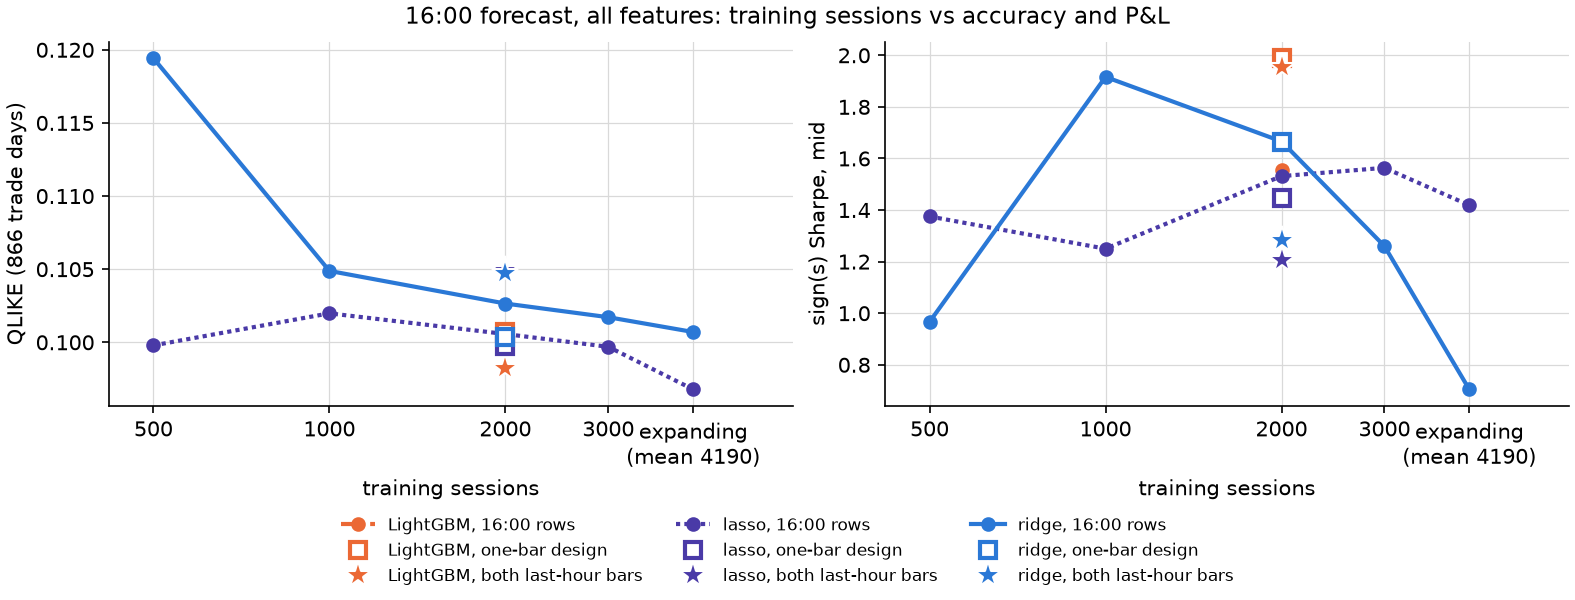
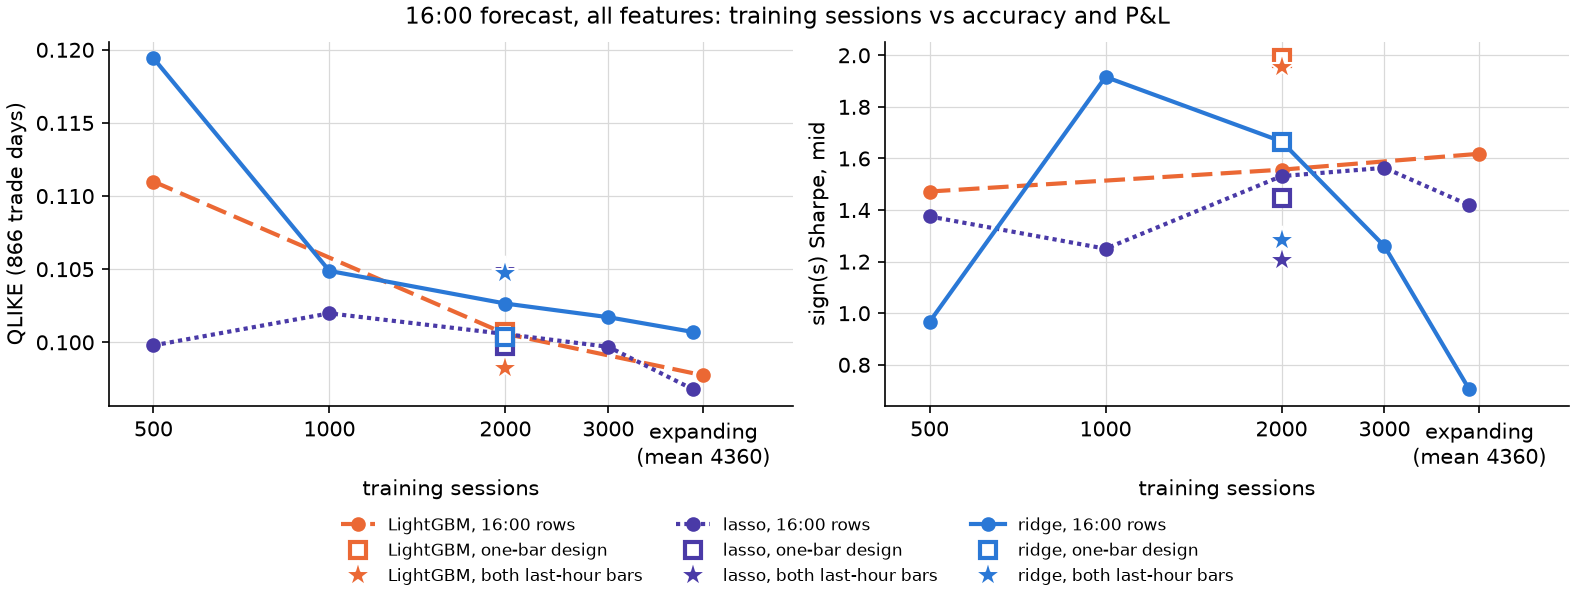
WIP snapshot: data-size study interim tables mid-run (not final)
Claude-Session: https://claude.ai/code/session_01ExxYmfkeSs8J19Auttq95f

diff --git a/results/close_studies_2026-10-03/trees_datasize/SUMMARY.md b/results/close_studies_2026-10-03/trees_datasize/SUMMARY.md
@@ -13,6 +13,7 @@ Question (the user's note): *not enough training data for trees? -> last hour (2
 - LightGBM, both last-hour bars (4000 rows) vs 2000 sessions of 16:00 rows on the same scaling: QLIKE 0.1006 -> 0.0982 (DM -1.18), Sharpe mid 1.56 -> 1.95 (HAC t 0.91).
 - lasso, both last-hour bars (4000 rows) vs 2000 sessions of 16:00 rows on the same scaling: QLIKE 0.1006 -> 0.1049 (DM 1.06), Sharpe mid 1.53 -> 1.21 (HAC t -0.91).
 - ridge, both last-hour bars (4000 rows) vs 2000 sessions of 16:00 rows on the same scaling: QLIKE 0.1027 -> 0.1048 (DM 0.67), Sharpe mid 1.67 -> 1.29 (HAC t -0.99).
+- LightGBM, learning curve on the 16:00 rows (500 / 2000 / expanding sessions): QLIKE 0.1110 / 0.1006 / 0.0977; Sharpe mid 1.47 / 1.56 / 1.62.
 - lasso, learning curve on the 16:00 rows (500 / 1000 / 2000 / 3000 / expanding sessions): QLIKE 0.0998 / 0.1020 / 0.1006 / 0.0997 / 0.0968; Sharpe mid 1.38 / 1.25 / 1.53 / 1.56 / 1.42.
 - ridge, learning curve on the 16:00 rows (500 / 1000 / 2000 / 3000 / expanding sessions): QLIKE 0.1194 / 0.1049 / 0.1027 / 0.1017 / 0.1007; Sharpe mid 0.97 / 1.92 / 1.67 / 1.26 / 0.70.
 - LightGBM, same 2000 sessions, one-bar design vs the last30 design's 16:00 rows (only the scaling of 279 columns differs): QLIKE 0.1007 vs 0.1006 (DM -0.09), Sharpe mid 1.99 vs 1.56 (HAC t -0.99).
@@ -61,7 +62,9 @@ Question (the user's note): *not enough training data for trees? -> last hour (2
 |---|---|---|---|---|---|---|---|---|---|
 | `lgbm_bar1600_w2000` | LightGBM | 16:00 rows, one-bar design (shipped) | 2000 sessions | 0.1007 | 1.99 | 1.52 |  |  | 21.3 |
 | `lgbm_pool_w4000` | LightGBM | both last-hour bars (last30 design) | 2000 sessions (4000 rows) | 0.0982 | 1.95 | 1.48 | -1.16 | -0.13 | 22.6 |
+| `lgbm_h16_w500` | LightGBM | 16:00 rows of the last30 design | 500 sessions | 0.1110 | 1.47 | 1.01 | 3.04 | -1.27 | 15.1 |
 | `lgbm_h16_w2000` | LightGBM | 16:00 rows of the last30 design | 2000 sessions | 0.1006 | 1.56 | 1.08 | -0.09 | -0.99 | 21.4 |
+| `lgbm_h16_wexp` | LightGBM | 16:00 rows of the last30 design | expanding (3695..5025 sessions) | 0.0977 | 1.62 | 1.15 | -1.72 | -0.91 | 24.4 |
 | `ridge_bar1600_w2000` | ridge | 16:00 rows, one-bar design (shipped) | 2000 sessions | 0.1004 | 1.66 | 1.20 | -0.07 | -0.79 | 0.1 |
 | `ridge_pool_w4000` | ridge | both last-hour bars (last30 design) | 2000 sessions (4000 rows) | 0.1048 | 1.29 | 0.82 | 0.88 | -1.46 | 0.2 |
 | `ridge_h16_w500` | ridge | 16:00 rows of the last30 design | 500 sessions | 0.1194 | 0.97 | 0.49 | 2.20 | -1.87 | 0.1 |
@@ -86,7 +89,11 @@ Question (the user's note): *not enough training data for trees? -> last hour (2
 | `lgbm_bar1600_w2000` | `lgbm_h16_w2000` | +0.0001 | +0.1 | 0.09 | +0.43 | 0.99 |
 | `lgbm_pool_w4000` | `lgbm_bar1600_w2000` | -0.0024 | -2.4 | -1.16 | -0.03 | -0.13 |
 | `lgbm_pool_w4000` | `lgbm_h16_w2000` | -0.0023 | -2.3 | -1.18 | +0.40 | 0.91 |
+| `lgbm_h16_w500` | `lgbm_bar1600_w2000` | +0.0103 | +10.3 | 3.04 | -0.52 | -1.27 |
+| `lgbm_h16_w500` | `lgbm_h16_w2000` | +0.0104 | +10.4 | 2.71 | -0.08 | -0.18 |
 | `lgbm_h16_w2000` | `lgbm_bar1600_w2000` | -0.0001 | -0.1 | -0.09 | -0.43 | -0.99 |
+| `lgbm_h16_wexp` | `lgbm_bar1600_w2000` | -0.0029 | -2.9 | -1.72 | -0.37 | -0.91 |
+| `lgbm_h16_wexp` | `lgbm_h16_w2000` | -0.0028 | -2.8 | -2.10 | +0.06 | 0.11 |
 | `ridge_bar1600_w2000` | `ridge_h16_w2000` | -0.0023 | -2.2 | -1.47 | -0.00 | -0.01 |
 | `ridge_pool_w4000` | `ridge_bar1600_w2000` | +0.0044 | +4.4 | 1.40 | -0.38 | -0.98 |
 | `ridge_pool_w4000` | `ridge_h16_w2000` | +0.0021 | +2.1 | 0.67 | -0.38 | -0.99 |
@@ -120,10 +127,14 @@ dQLIKE < 0 and DM < 0: the tree has the lower loss; dSharpe > 0 and HAC t > 0: t
 |---|---|---|---|---|---|---|---|---|---|---|
 | `lgbm_bar1600_w2000` | `ridge_bar1600_w2000` | 16:00 rows, one-bar design (shipped) | 2000 sessions | 0.1007 | 0.1004 | +0.0003 | 0.07 | 1.99 | 1.66 | 0.79 |
 | `lgbm_pool_w4000` | `ridge_pool_w4000` | both last-hour bars (last30 design) | 2000 sessions (4000 rows) | 0.0982 | 0.1048 | -0.0065 | -1.50 | 1.95 | 1.29 | 1.55 |
+| `lgbm_h16_w500` | `ridge_h16_w500` | 16:00 rows of the last30 design | 500 sessions | 0.1110 | 0.1194 | -0.0084 | -1.02 | 1.47 | 0.97 | 0.98 |
 | `lgbm_h16_w2000` | `ridge_h16_w2000` | 16:00 rows of the last30 design | 2000 sessions | 0.1006 | 0.1027 | -0.0021 | -0.44 | 1.56 | 1.67 | -0.22 |
+| `lgbm_h16_wexp` | `ridge_h16_wexp` | 16:00 rows of the last30 design | expanding (3695..5025 sessions) | 0.0977 | 0.1007 | -0.0030 | -0.71 | 1.62 | 0.70 | 2.20 |
 | `lgbm_bar1600_w2000` | `lasso_bar1600_w2000` | 16:00 rows, one-bar design (shipped) | 2000 sessions | 0.1007 | 0.0998 | +0.0009 | 0.28 | 1.99 | 1.45 | 1.46 |
 | `lgbm_pool_w4000` | `lasso_pool_w4000` | both last-hour bars (last30 design) | 2000 sessions (4000 rows) | 0.0982 | 0.1049 | -0.0067 | -1.66 | 1.95 | 1.21 | 1.93 |
+| `lgbm_h16_w500` | `lasso_h16_w500` | 16:00 rows of the last30 design | 500 sessions | 0.1110 | 0.0998 | +0.0112 | 2.07 | 1.47 | 1.38 | 0.28 |
 | `lgbm_h16_w2000` | `lasso_h16_w2000` | 16:00 rows of the last30 design | 2000 sessions | 0.1006 | 0.1006 | +0.0000 | 0.00 | 1.56 | 1.53 | 0.05 |
+| `lgbm_h16_wexp` | `lasso_h16_wexp` | 16:00 rows of the last30 design | expanding (3695..5025 sessions) | 0.0977 | 0.0968 | +0.0010 | 0.32 | 1.62 | 1.42 | 0.44 |
 
 ## Does more data help the trees more than the linear models? (difference in differences)
 
@@ -133,8 +144,12 @@ dQLIKE tree = the tree's QLIKE change from the reference window to the new rows;
 |---|---|---|---|---|---|---|---|---|---|
 | LightGBM | ridge | h16_w2000 -> pool_w4000 | -0.0023 | +0.0021 | -0.0045 | -1.49 | +0.40 | -0.38 | 1.50 |
 | LightGBM | ridge | bar1600_w2000 -> pool_w4000 | -0.0024 | +0.0044 | -0.0068 | -2.08 | -0.03 | -0.38 | 0.86 |
+| LightGBM | ridge | h16_w2000 -> h16_w500 | +0.0104 | +0.0168 | -0.0064 | -1.07 | -0.08 | -0.70 | 0.83 |
+| LightGBM | ridge | h16_w2000 -> h16_wexp | -0.0028 | -0.0019 | -0.0009 | -0.34 | +0.06 | -0.96 | 1.91 |
 | LightGBM | lasso | h16_w2000 -> pool_w4000 | -0.0023 | +0.0044 | -0.0067 | -1.52 | +0.40 | -0.33 | 1.28 |
 | LightGBM | lasso | bar1600_w2000 -> pool_w4000 | -0.0024 | +0.0052 | -0.0076 | -1.71 | -0.03 | -0.24 | 0.44 |
+| LightGBM | lasso | h16_w2000 -> h16_w500 | +0.0104 | -0.0008 | +0.0112 | 2.73 | -0.08 | -0.16 | 0.11 |
+| LightGBM | lasso | h16_w2000 -> h16_wexp | -0.0028 | -0.0038 | +0.0009 | 0.40 | +0.06 | -0.11 | 0.24 |
 
 ## Learning curve (16:00 rows of the last30 design)
 
@@ -142,17 +157,18 @@ dQLIKE tree = the tree's QLIKE change from the reference window to the new rows;
 
 | window | LightGBM QLIKE | lasso QLIKE | ridge QLIKE | LightGBM Sharpe mid | lasso Sharpe mid | ridge Sharpe mid |
 |---|---|---|---|---|---|---|
-| 500 sessions |  | 0.0998 | 0.1194 |  | 1.38 | 0.97 |
+| 500 sessions | 0.1110 | 0.0998 | 0.1194 | 1.47 | 1.38 | 0.97 |
 | 1000 sessions |  | 0.1020 | 0.1049 |  | 1.25 | 1.92 |
 | 2000 sessions | 0.1006 | 0.1006 | 0.1027 | 1.56 | 1.53 | 1.67 |
 | 3000 sessions |  | 0.0997 | 0.1017 |  | 1.56 | 1.26 |
 | expanding (3565..4815 sessions) |  | 0.0968 | 0.1007 |  | 1.42 | 0.70 |
+| expanding (3695..5025 sessions) | 0.0977 |  |  | 1.62 |  |  |
 
 ## Not run
-- Arms of the plan not run in this container's CPU budget: `lgbm_h16_wexp`, `lgbm_h16_w500`, `lgbm_h16_w1000`, `lgbm_h16_w3000`, `xgb_bar1600_w2000`, `xgb_pool_w4000`. The `closing` segment (5 bars, 14:00-16:00) was not built.
+- Arms of the plan not run in this container's CPU budget: `lgbm_h16_w1000`, `lgbm_h16_w3000`, `xgb_bar1600_w2000`, `xgb_pool_w4000`. The `closing` segment (5 bars, 14:00-16:00) was not built.
 - Hoffman2 version (written, smoke-tested locally at tiny size, NOT submitted): `cluster/close_trees_datasize_h2_task.sh` + `cluster/submit_close_trees_datasize_h2.sh`, 176 single-slot tasks in `cluster/close_trees_datasize_h2_tasks.txt` (each arm cut into 8 time chunks, joined by `merge`): refit every 10 sessions: `xgb_bar1600_w2000`, `xgb_pool_w4000`, `rf_bar1600_w2000`, `rf_pool_w4000`, `rf_h16_w2000`, `rf_h16_wexp`, `xgb_h16_w2000`, `xgb_h16_wexp`, `xgb_h16_w500`, `xgb_h16_w1000`, `xgb_h16_w3000`; refit every 1 session: `lgbm_bar1600_w2000`, `lgbm_pool_w4000`, `lgbm_h16_w2000`, `lgbm_h16_wexp`, `lgbm_h16_w500`, `lgbm_h16_w1000`, `lgbm_h16_w3000`, `xgb_bar1600_w2000`, `xgb_pool_w4000`, `xgb_h16_w2000`, `xgb_h16_wexp`. The local control's LightGBM fit took 9.9 s on one core here, so one arm refit every session (1339 fits) is about 3.7 CPU-hours.
 
 ## Files
 - `experiments/close_trees_datasize.py` (run stage), `experiments/close_trees_datasize_analyze.py` (this report)
 - `arms.csv`, `vs_reference.csv`, `tree_minus_linear.csv`, `trees_vs_linear.csv`, `curve.csv`, `gates.csv`, `learning_curve.png`; forecasts in `_work/<arm>.npz` (not committed)
-- CPU: 78 min over 17 arms, one single-threaded process at a time.
+- CPU: 117 min over 19 arms, one single-threaded process at a time.
